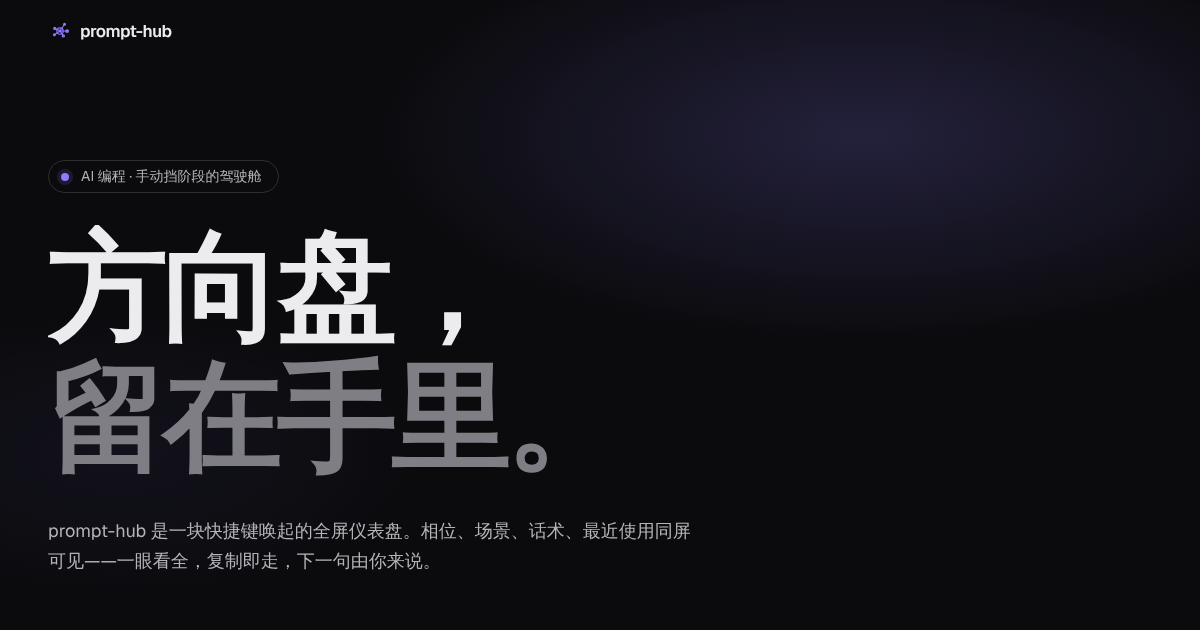
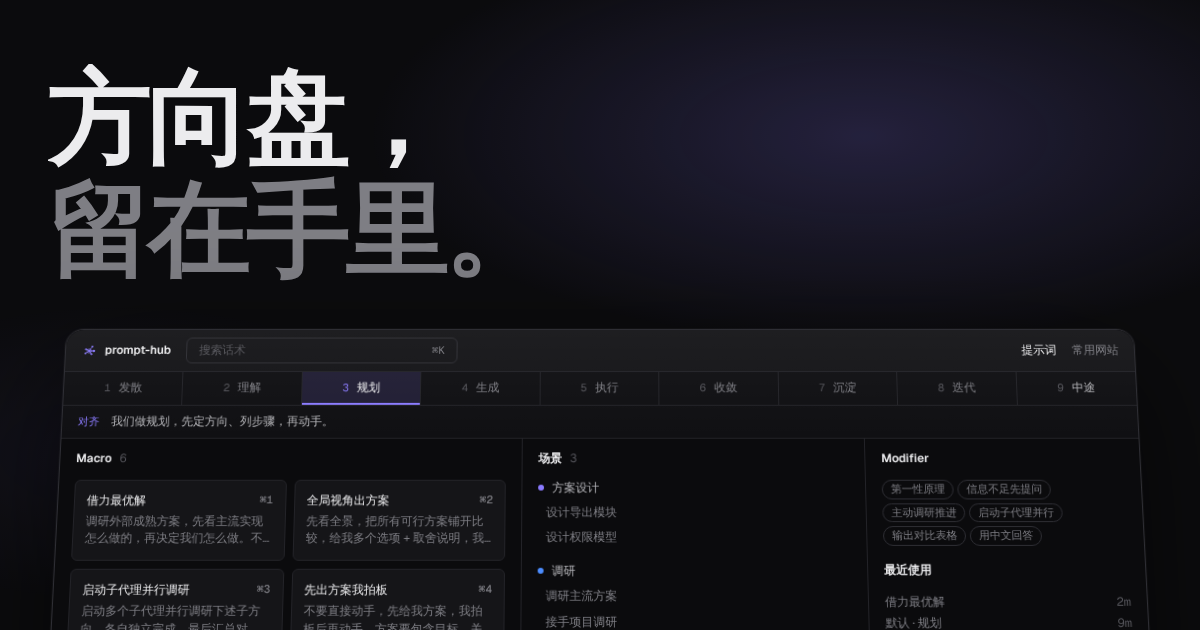
perf(site): pass Lighthouse audits and ship a product share image
Decide the language before first paint so English visitors get no layout
shift, render below-the-fold sections lazily, preload only the sans font,
lift composer text contrast to AA, and stop the cockpit replica's labels
from skipping heading levels. Mobile Lighthouse: 98 / 100 / 100 / 100,
CLS 0. The share image now shows the headline over the cockpit.

Claude-Session: https://claude.ai/code/session_01Kh6Sh8W2Ne4E2XhdJVbP4t

diff --git a/site/index.html b/site/index.html
@@ -17,6 +17,8 @@
       content="AI 编程手动挡阶段的桌面仪表盘。⌥Space 唤起，一眼看全，复制即走。"
     />
     <meta property="og:image" content="og.png" />
+    <meta property="og:image:width" content="1200" />
+    <meta property="og:image:height" content="630" />
     <meta name="twitter:card" content="summary_large_image" />
     <link rel="icon" href="favicon.svg" type="image/svg+xml" />
     <link
@@ -26,16 +28,27 @@
       type="font/woff2"
       crossorigin
     />
-    <link
-      rel="preload"
-      href="fonts/GeistMono-Variable.woff2"
-      as="font"
-      type="font/woff2"
-      crossorigin
-    />
     <link rel="stylesheet" href="styles.css" />
     <script>
-      document.documentElement.classList.add("js");
+      // Decide the language before first paint so English visitors never see
+      // the Chinese copy reflow; main.js lifts .pre-en once it has swapped.
+      (function () {
+        var d = document.documentElement;
+        d.classList.add("js");
+        try {
+          var l =
+            new URLSearchParams(location.search).get("lang") ||
+            localStorage.getItem("ph-lang");
+          if (!l) {
+            l = (navigator.languages || []).some(function (x) {
+              return /^zh/i.test(x);
+            })
+              ? "zh"
+              : "en";
+          }
+          if (l === "en") d.classList.add("pre-en");
+        } catch (e) {}
+      })();
     </script>
     <script type="module" src="main.js"></script>
   </head>
@@ -139,11 +152,11 @@
 
             <div class="ck-body">
               <section class="ck-col ck-col--macro" aria-label="Macro">
-                <h3 class="ck-h">Macro <span class="ck-count">6</span></h3>
+                <p class="ck-h">Macro <span class="ck-count">6</span></p>
                 <div class="ck-macros" data-macros></div>
-                <h3 class="ck-h ck-h--sop">
+                <p class="ck-h ck-h--sop">
                   SOP · 方案设计型 <span class="ck-count">3/5</span>
-                </h3>
+                </p>
                 <ol class="ck-sop">
                   <li class="is-done">借力最优解</li>
                   <li class="is-done">全局视角出方案</li>
@@ -153,17 +166,17 @@
                 </ol>
               </section>
               <section class="ck-col ck-col--scene" aria-label="场景">
-                <h3 class="ck-h">场景 <span class="ck-count">3</span></h3>
+                <p class="ck-h">场景 <span class="ck-count">3</span></p>
                 <div class="ck-scenes" data-scenes></div>
               </section>
               <aside class="ck-col ck-col--aux" aria-label="辅助">
-                <h3 class="ck-h">Modifier</h3>
+                <p class="ck-h">Modifier</p>
                 <div class="ck-mods">
                   <span>第一性原理</span><span>信息不足先提问</span
                   ><span>主动调研推进</span><span>启动子代理并行</span
                   ><span>输出对比表格</span><span>用中文回答</span>
                 </div>
-                <h3 class="ck-h">最近使用</h3>
+                <p class="ck-h">最近使用</p>
                 <ul class="ck-recent" data-recent></ul>
               </aside>
             </div>

diff --git a/site/styles.css b/site/styles.css
@@ -99,6 +99,18 @@
   --stagger: 70ms;
 }
 
+/* Hidden only until main.js applies English; the animation is a failsafe
+   so the page still appears if the script never runs. */
+.pre-en body {
+  visibility: hidden;
+  animation: unhide 0s 1.5s forwards;
+}
+@keyframes unhide {
+  to {
+    visibility: visible;
+  }
+}
+
 /* ── Base ─────────────────────────────────────────────────────── */
 *,
 *::before,
@@ -1040,6 +1052,15 @@ main > section + section {
   letter-spacing: 0;
 }
 
+/* Below-the-fold sections skip rendering until near the viewport. */
+.layers,
+.midway,
+.bounds,
+.close {
+  content-visibility: auto;
+  contain-intrinsic-size: auto 1000px;
+}
+
 /* ── Gears ────────────────────────────────────────────────────── */
 .gears {
   position: relative;
@@ -1282,7 +1303,7 @@ main > section + section {
   color: var(--fg-2);
 }
 .composer__sentence .frag {
-  color: var(--fg-4);
+  color: var(--fg-3);
 }
 .composer__sentence .m {
   color: var(--fg-1);

diff --git a/site/main.js b/site/main.js
@@ -657,6 +657,7 @@ cues();
 const onScroll = [nav(), cockpit(), gears()];
 const boot = initialLang();
 if (boot === "en") setLang("en", { boot: true });
+document.documentElement.classList.remove("pre-en");
 $("[data-lang]").addEventListener("click", () =>
   setLang(lang === "en" ? "zh" : "en", { persist: true }),
 );
